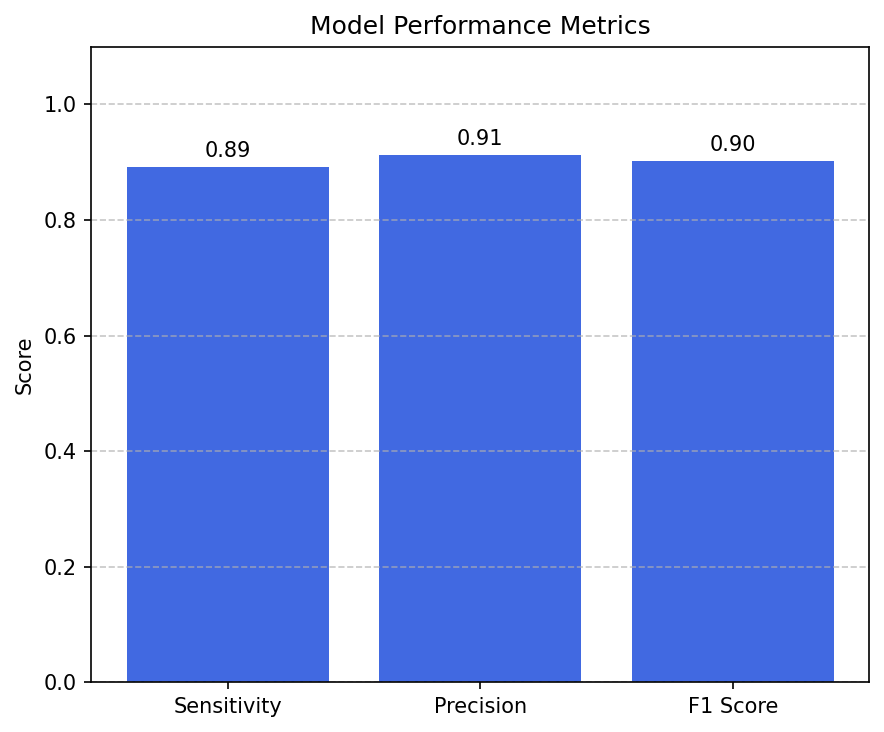
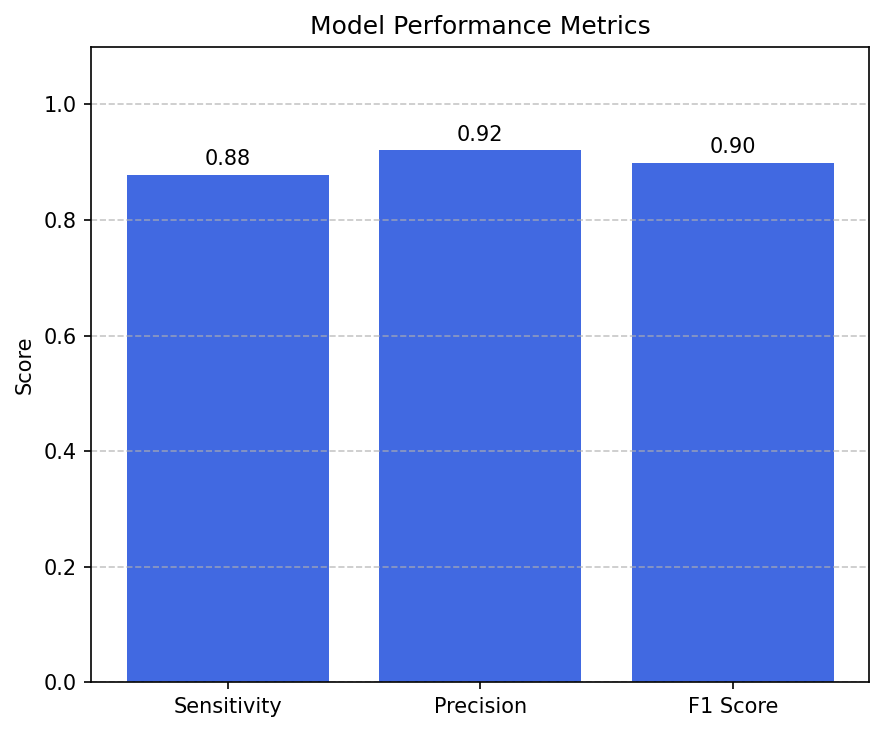
Fix: Arch changes, B and V calc

Changed region(s): [[0.1222, 0.1803, 0.3665, 0.2404], [0.4276, 0.1503, 0.6414, 0.2104], [0.7941, 0.1803, 0.8552, 0.2104]]

diff --git a/main.py b/main.py
@@ -271,6 +271,15 @@ def main(train_sample_size=None, use_bce=True, dataset_path=None, dataset_type='
     print(f"\n Quantum Confusion Matrix:")
     print(f"   True Positives: {tp}")
     print(f"   True Negatives: {tn}")
+    # Calculate continuous probabilities for Bias, Variance, ROC, and PR curves
+    raw_outputs = []
+    for xi in X_eval:
+         out = trained_model.quantum_circuit(trained_model._preprocess_input(np.array([xi])), trained_model._flatten_params(trained_model.quantum_params))
+         raw_outputs.append(float(np.squeeze(out)))
+    raw_outputs = np.array(raw_outputs)
+    # Normalize continuous outputs to [0, 1] for metrics and curves
+    prob_scores = (raw_outputs - raw_outputs.min()) / (raw_outputs.max() - raw_outputs.min() + 1e-8)
+
     # Evaluation Metrics
     # Map predictions from [-1, 1] to [0, 1] for sklearn metrics
     y_test_bin = np.where(y_test == 1, 1, 0)
@@ -280,10 +289,16 @@ def main(train_sample_size=None, use_bce=True, dataset_path=None, dataset_type='
     recall = recall_score(y_test_bin, preds_bin, zero_division=0)
     f1 = f1_score(y_test_bin, preds_bin, zero_division=0)
     
+    # Calculate Prediction Bias and Variance
+    prediction_bias = np.mean(prob_scores) - np.mean(y_test_bin)
+    prediction_variance = np.var(prob_scores)
+
     print(f"\n Evaluation Metrics:")
     print(f"   Sensitivity (Recall): {recall:.3f}")
     print(f"   Precision: {precision:.3f}")
     print(f"   F1 Score: {f1:.3f}")
+    print(f"   Prediction Bias: {prediction_bias:.4f}")
+    print(f"   Prediction Variance: {prediction_variance:.4f}")
 
     # Plot training history and save graphs
     try:
@@ -305,17 +320,6 @@ def main(train_sample_size=None, use_bce=True, dataset_path=None, dataset_type='
         print(f"\n Confusion matrix saved as '{cm_path}'")
         
         # Save ROC Curve
-        # We need continuous probabilities for ROC. Since QCNN outputs values around [-1, 1],
-        # we can scale them to [0, 1] to approximate probabilities.
-        raw_outputs = []
-        for xi in X_eval:
-             # Quick approximation: run circuit directly to get continuous value
-             out = trained_model.quantum_circuit(trained_model._preprocess_input(np.array([xi])), trained_model._flatten_params(trained_model.quantum_params))
-             raw_outputs.append(float(np.squeeze(out)))
-        raw_outputs = np.array(raw_outputs)
-        # Normalize continuous outputs to [0, 1] for roc_curve
-        prob_scores = (raw_outputs - raw_outputs.min()) / (raw_outputs.max() - raw_outputs.min() + 1e-8)
-        
         fpr, tpr, _ = roc_curve(y_test_bin, prob_scores)
         roc_auc = auc(fpr, tpr)
         
@@ -357,14 +361,19 @@ def main(train_sample_size=None, use_bce=True, dataset_path=None, dataset_type='
         metrics_dir = os.path.join(graphs_dir, 'Evaluation_Metrics')
         os.makedirs(metrics_dir, exist_ok=True)
         metrics_path = os.path.join(metrics_dir, 'quantum_evaluation_metrics.png')
-        plt.figure(figsize=(6, 5))
-        metric_names = ['Sensitivity', 'Precision', 'F1 Score']
-        metric_vals = [recall, precision, f1]
-        bars = plt.bar(metric_names, metric_vals, color='royalblue')
+        plt.figure(figsize=(8, 5))
+        metric_names = ['Sensitivity', 'Precision', 'F1 Score', 'Pred Bias', 'Pred Var']
+        metric_vals = [recall, precision, f1, prediction_bias, prediction_variance]
+        bars = plt.bar(metric_names, metric_vals, color=['royalblue', 'royalblue', 'royalblue', 'coral', 'mediumseagreen'])
         for bar in bars:
             yval = bar.get_height()
-            plt.text(bar.get_x() + bar.get_width()/2, yval + 0.01, f'{yval:.2f}', ha='center', va='bottom')
-        plt.ylim([0, 1.1])
+            offset = 0.02 if yval >= 0 else -0.05
+            va = 'bottom' if yval >= 0 else 'top'
+            plt.text(bar.get_x() + bar.get_width()/2, yval + offset, f'{yval:.3f}', ha='center', va=va)
+        
+        min_val = min(0, min(metric_vals))
+        max_val = max(1.1, max(metric_vals))
+        plt.ylim([min_val - 0.1, max_val + 0.1])
         plt.title('Model Performance Metrics')
         plt.ylabel('Score')
         plt.grid(axis='y', linestyle='--', alpha=0.7)
